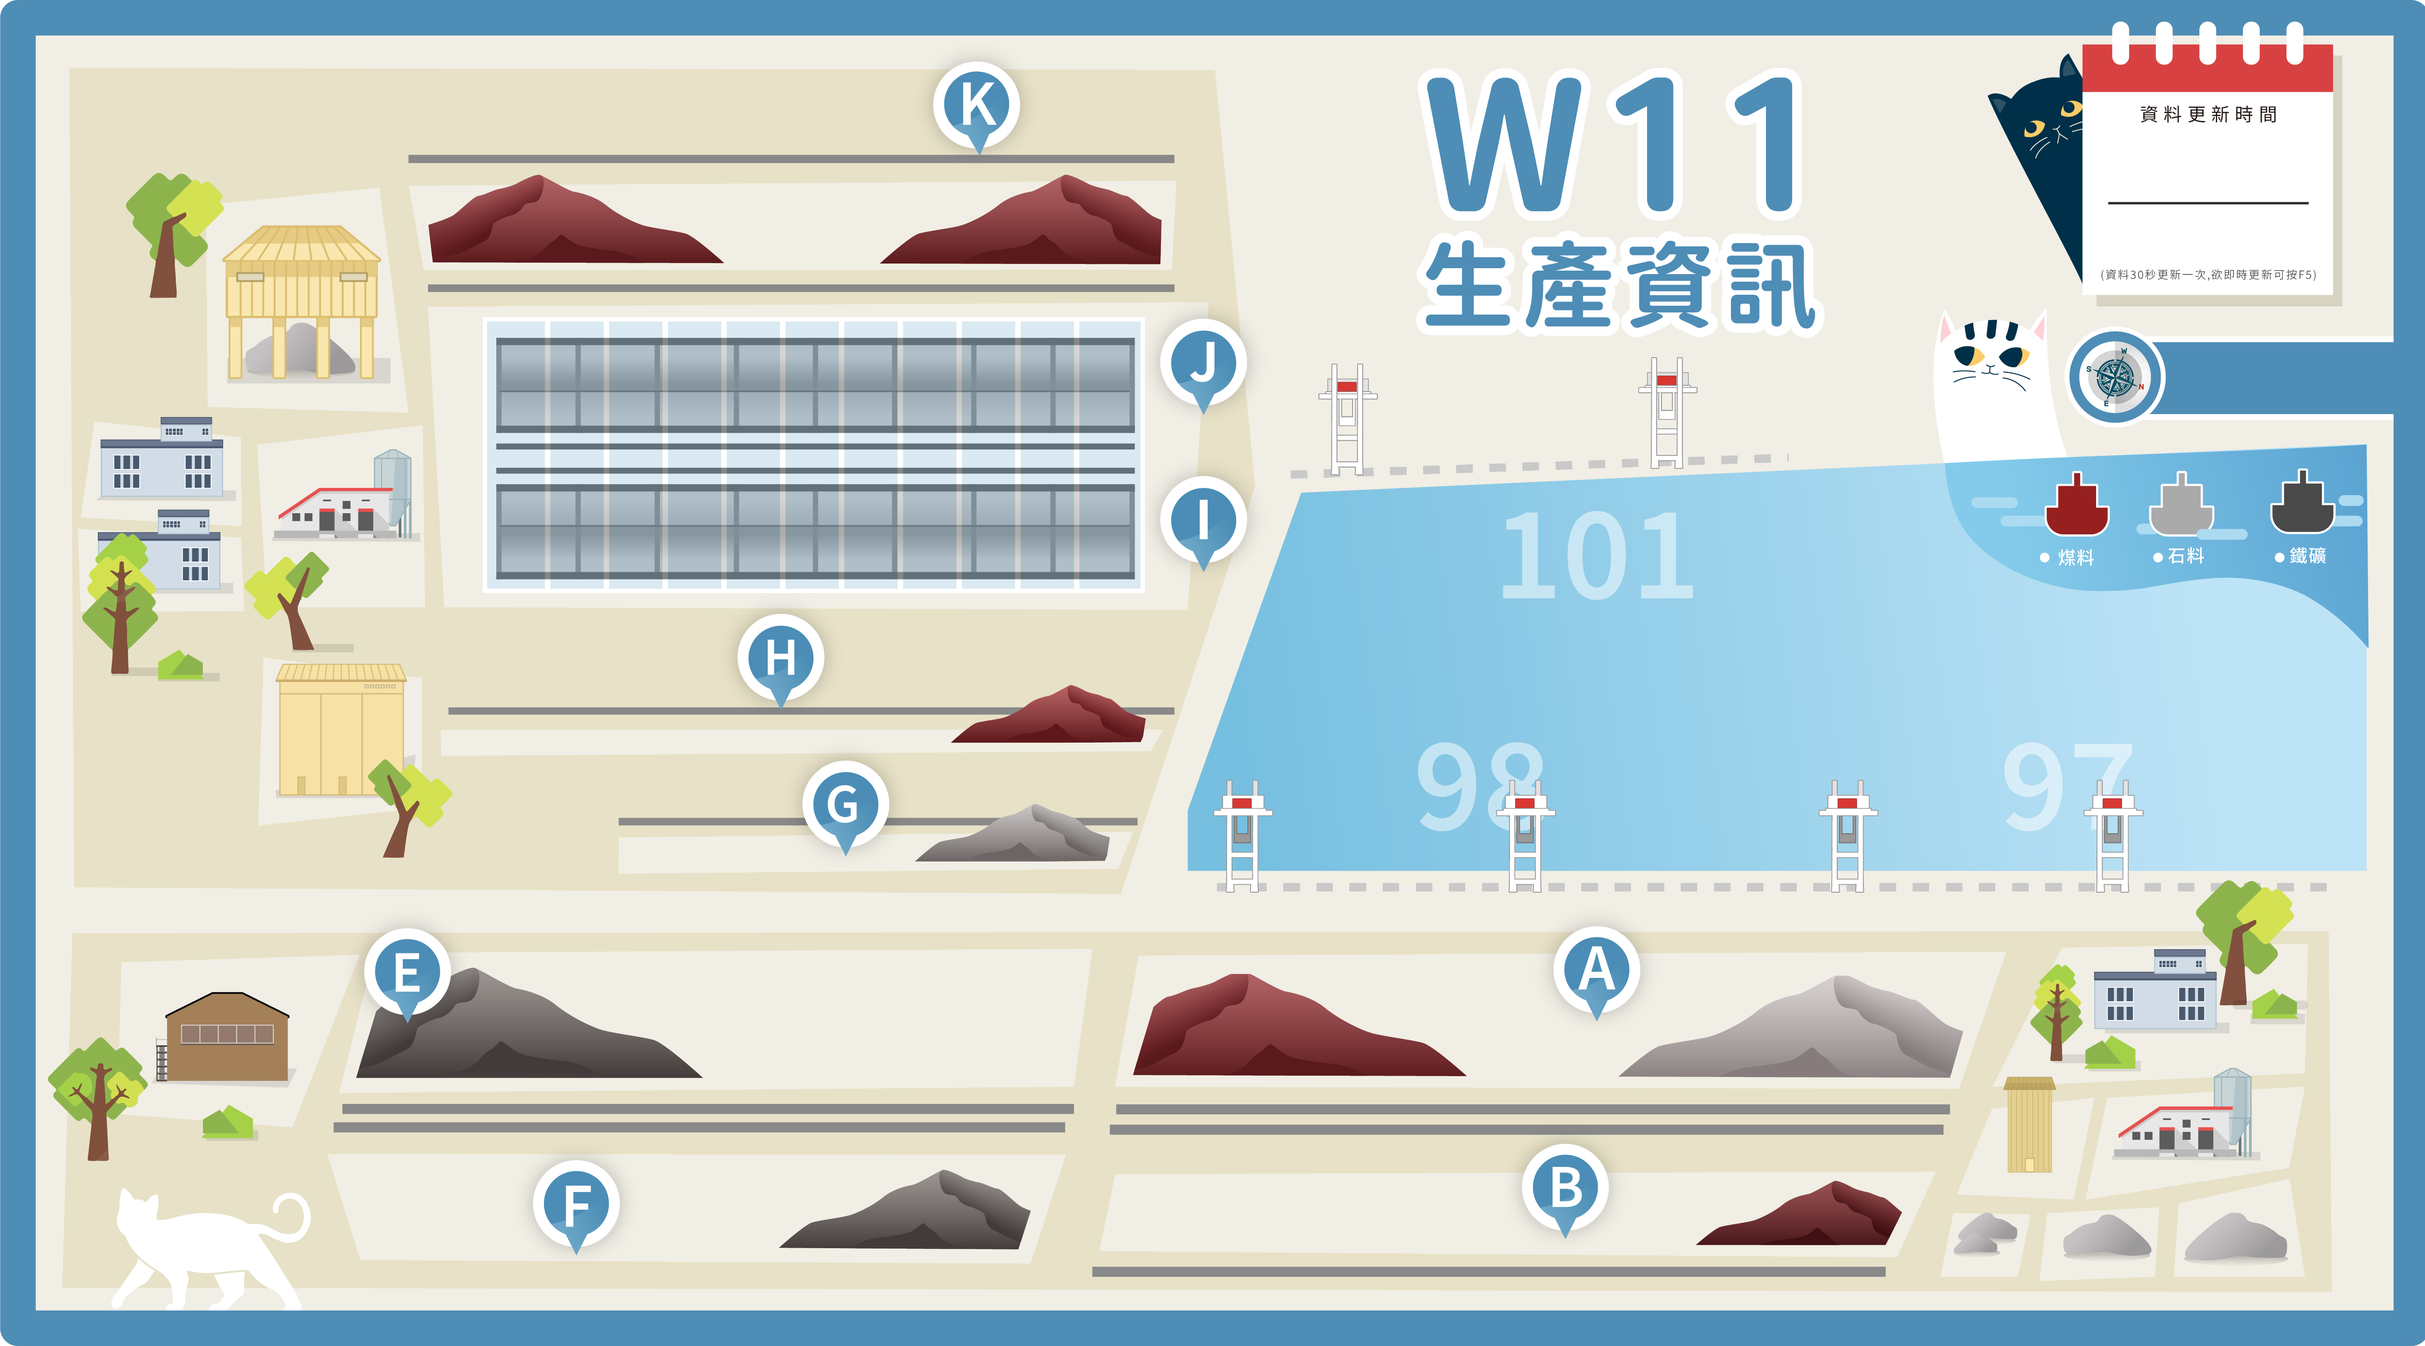
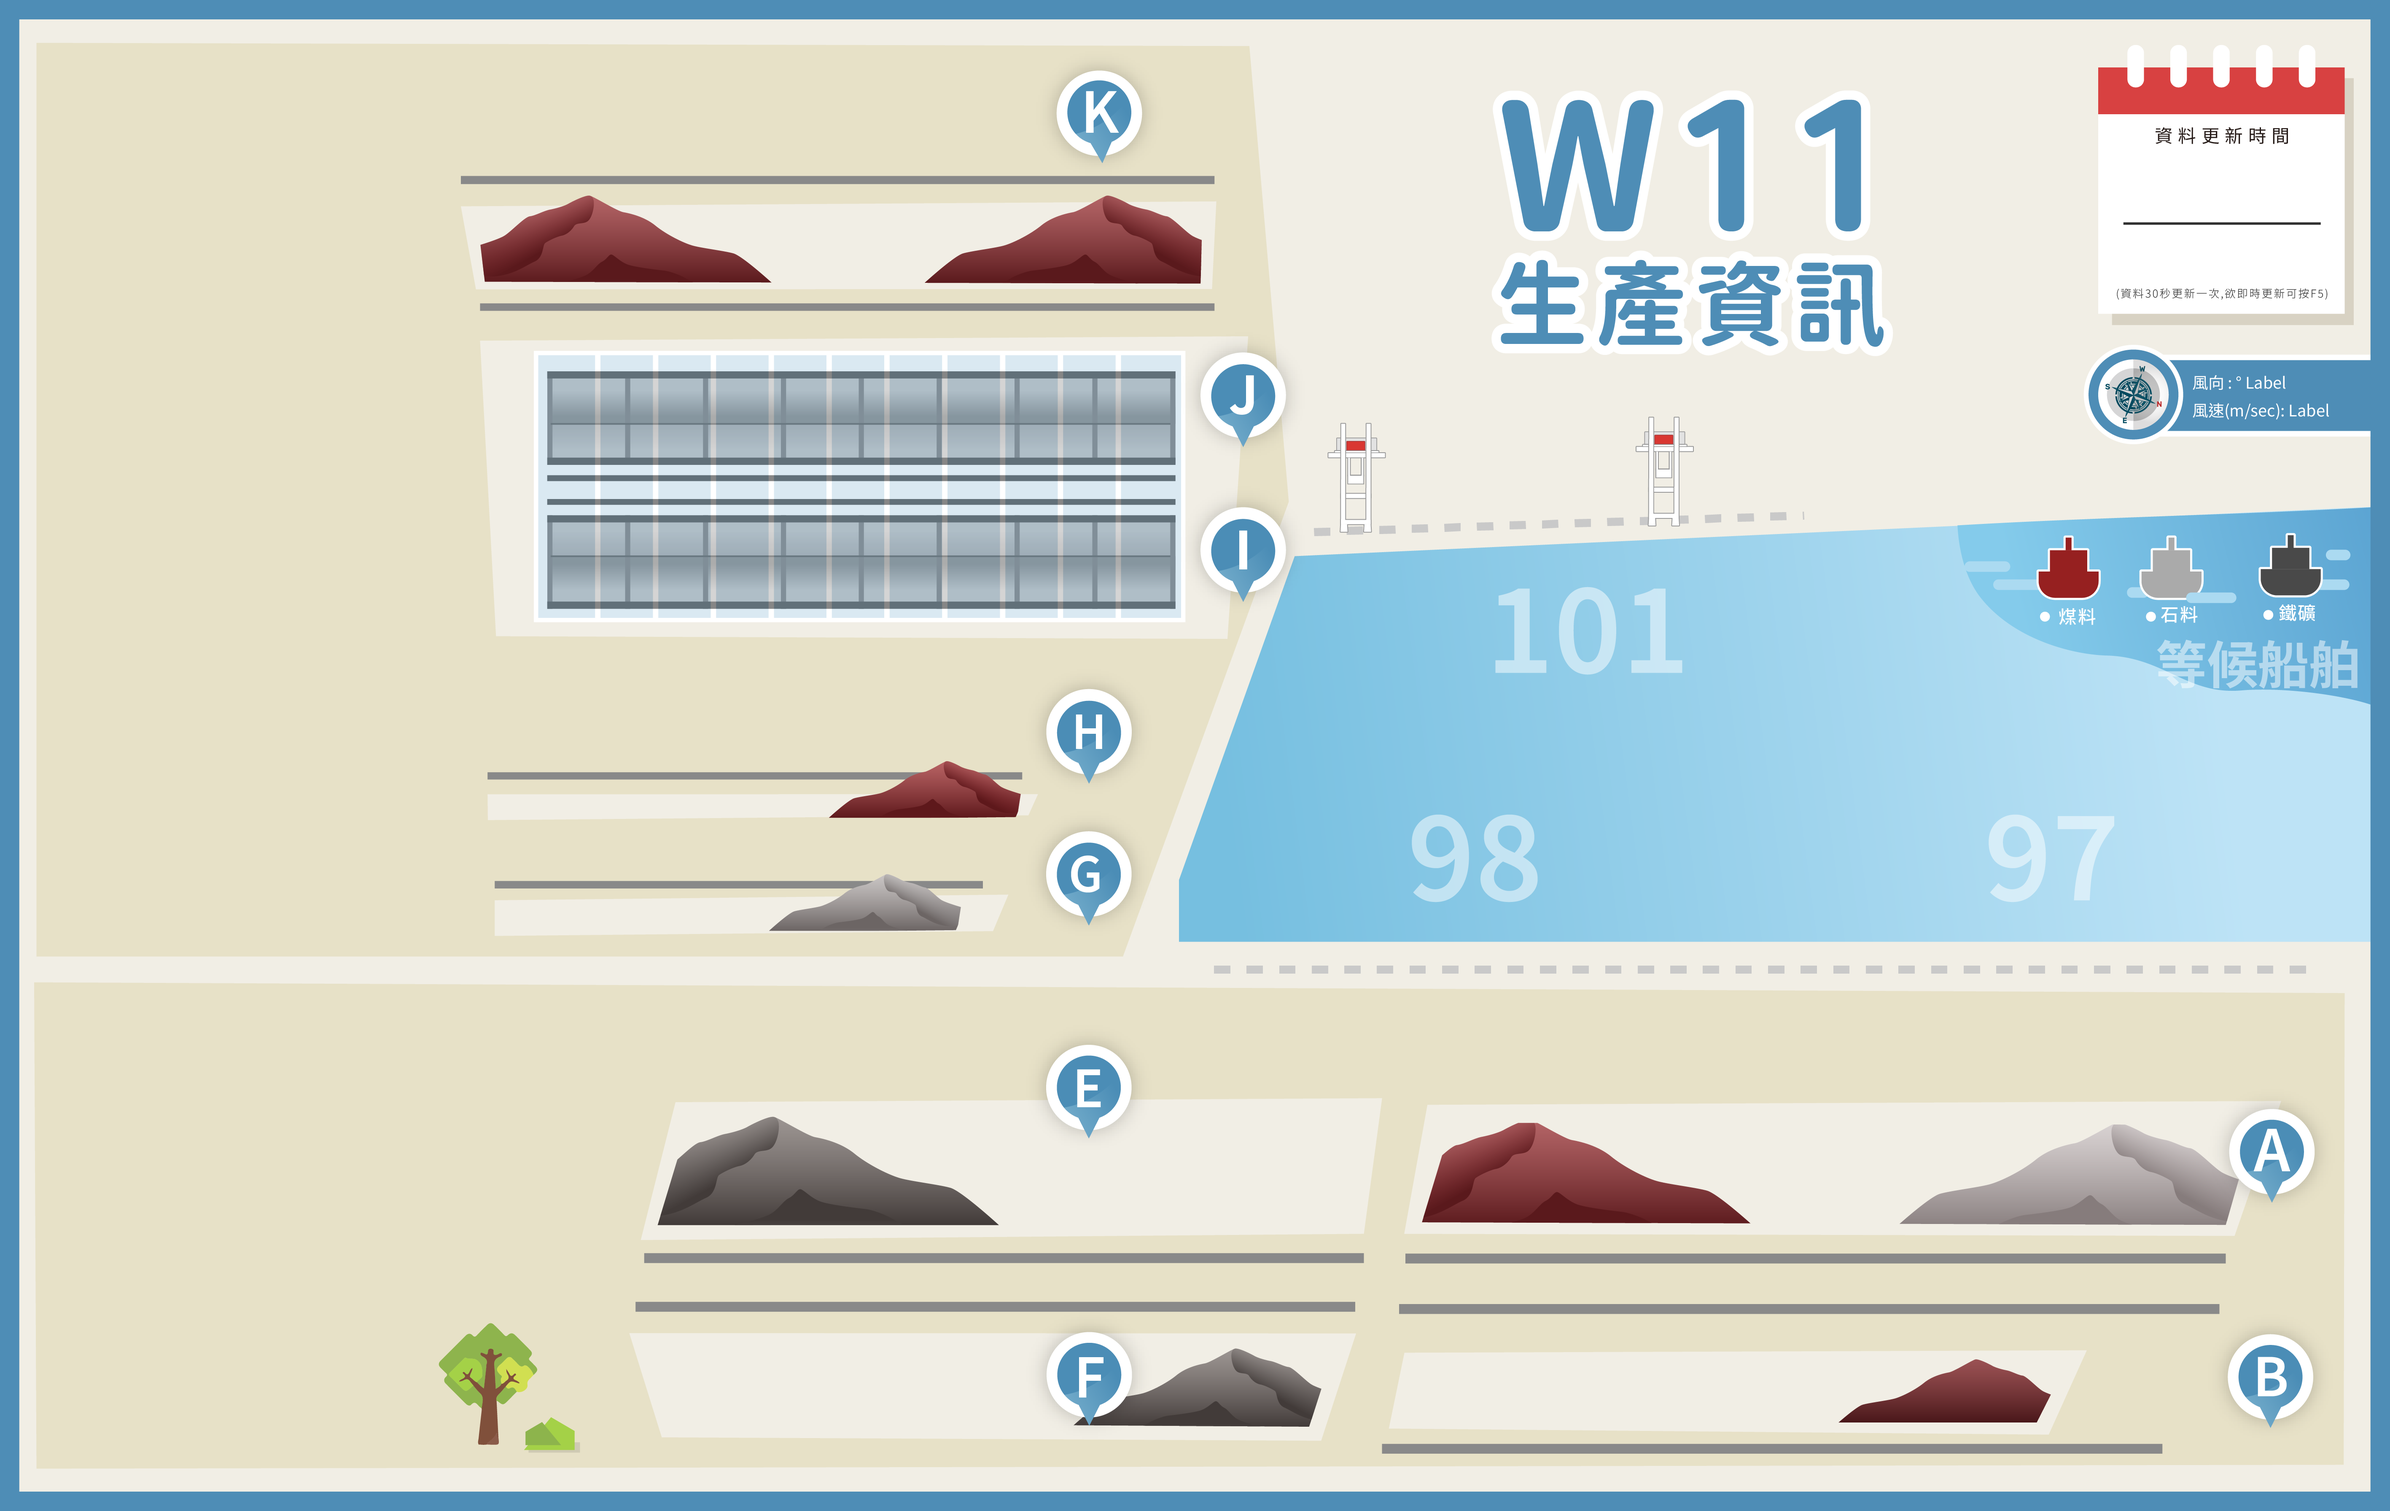
Add files via upload

diff --git a/css/main.css b/css/main.css
@@ -2,7 +2,7 @@
 .map {
   width: 1360px;
   height: 860px;
-  background-image: url(../img/w11_bg-5.png);
+  background-image: url(../img/w11_bg.png);
   background-size: cover;
   position: relative;
   /* 讓子元素相對於這個父元素 */
@@ -624,7 +624,7 @@
   background-color: rgba(115, 0, 255, 0.4901960784);
   position: absolute;
   top: 24px;
-  left: 20px;
+  left: 16px;
   gap: 8px;
 }
 
@@ -634,10 +634,10 @@
   height: 120px;
   flex-direction: row;
   flex-wrap: wrap;
-  background-color: rgba(0, 255, 8, 0.4196078431);
+  background-color: rgba(0, 255, 8, 0.262745098);
   position: absolute;
   top: 574px;
-  left: 20px;
+  left: 16px;
   gap: 8px;
 }
 
@@ -650,7 +650,7 @@
   background-color: rgba(0, 191, 255, 0.4666666667);
   position: absolute;
   top: 704px;
-  left: 20px;
+  left: 16px;
   gap: 10px;
 }
 

diff --git a/css/_message.scss b/css/_message.scss
@@ -628,7 +628,7 @@
   background-color: #7300ff7d;
   position: absolute;
   top: 24px;
-  left: 20px;
+  left: 16px;
   gap: 8px;
 
 
@@ -643,10 +643,10 @@
   height: 120px;
   flex-direction: row;
   flex-wrap: wrap;
-  background-color: #00ff086b;
+  background-color: #00ff0843;
   position: absolute;
   top: 574px;
-  left: 20px;
+  left: 16px;
   gap: 8px;
 }
 
@@ -659,7 +659,7 @@
   background-color: #00bfff77;
   position: absolute;
   top: 704px;
-  left: 20px;
+  left: 16px;
   gap: 10px;
 }
 

diff --git a/css/_map.scss b/css/_map.scss
@@ -2,7 +2,7 @@
 
   width: 1360px;
   height: 860px;
-  background-image: url(../img/w11_bg-5.png);
+  background-image: url(../img/w11_bg.png);
   background-size: cover;
 
   position: relative;

diff --git a/index.html b/index.html
@@ -323,7 +323,7 @@
 
 
 
-        <!-- 港口------ -->
+        <!-- 港口等待數量------ -->
 
         <div class="wait-boat">
 
